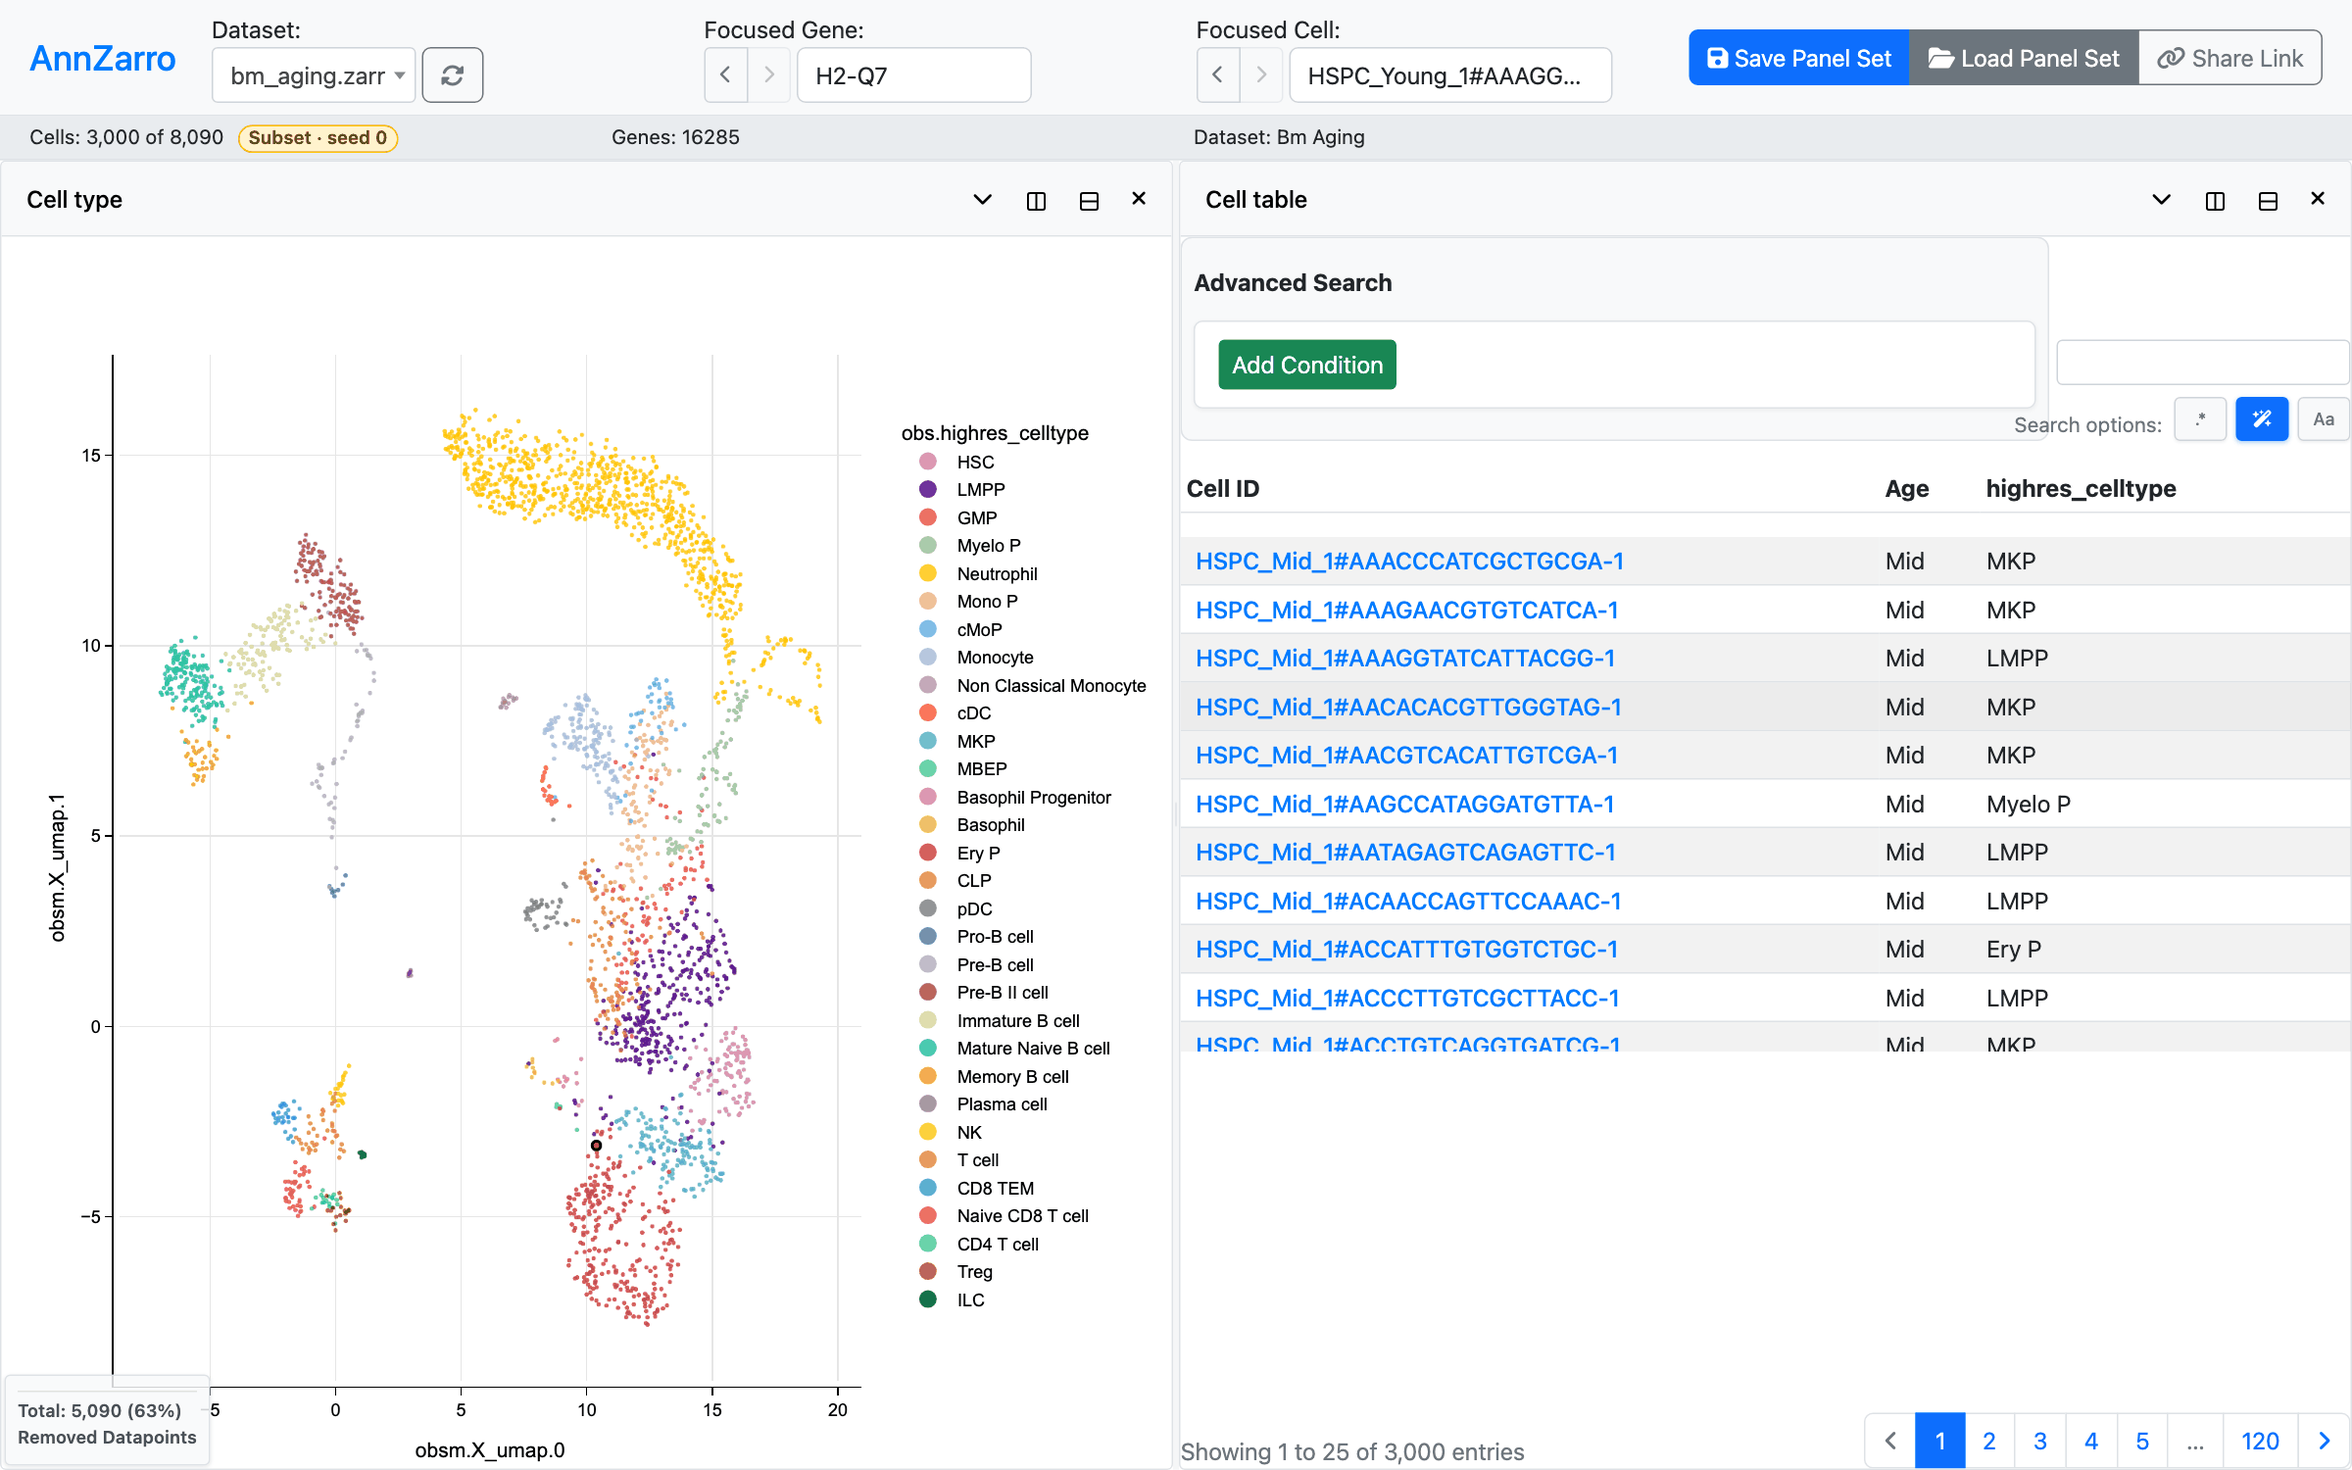
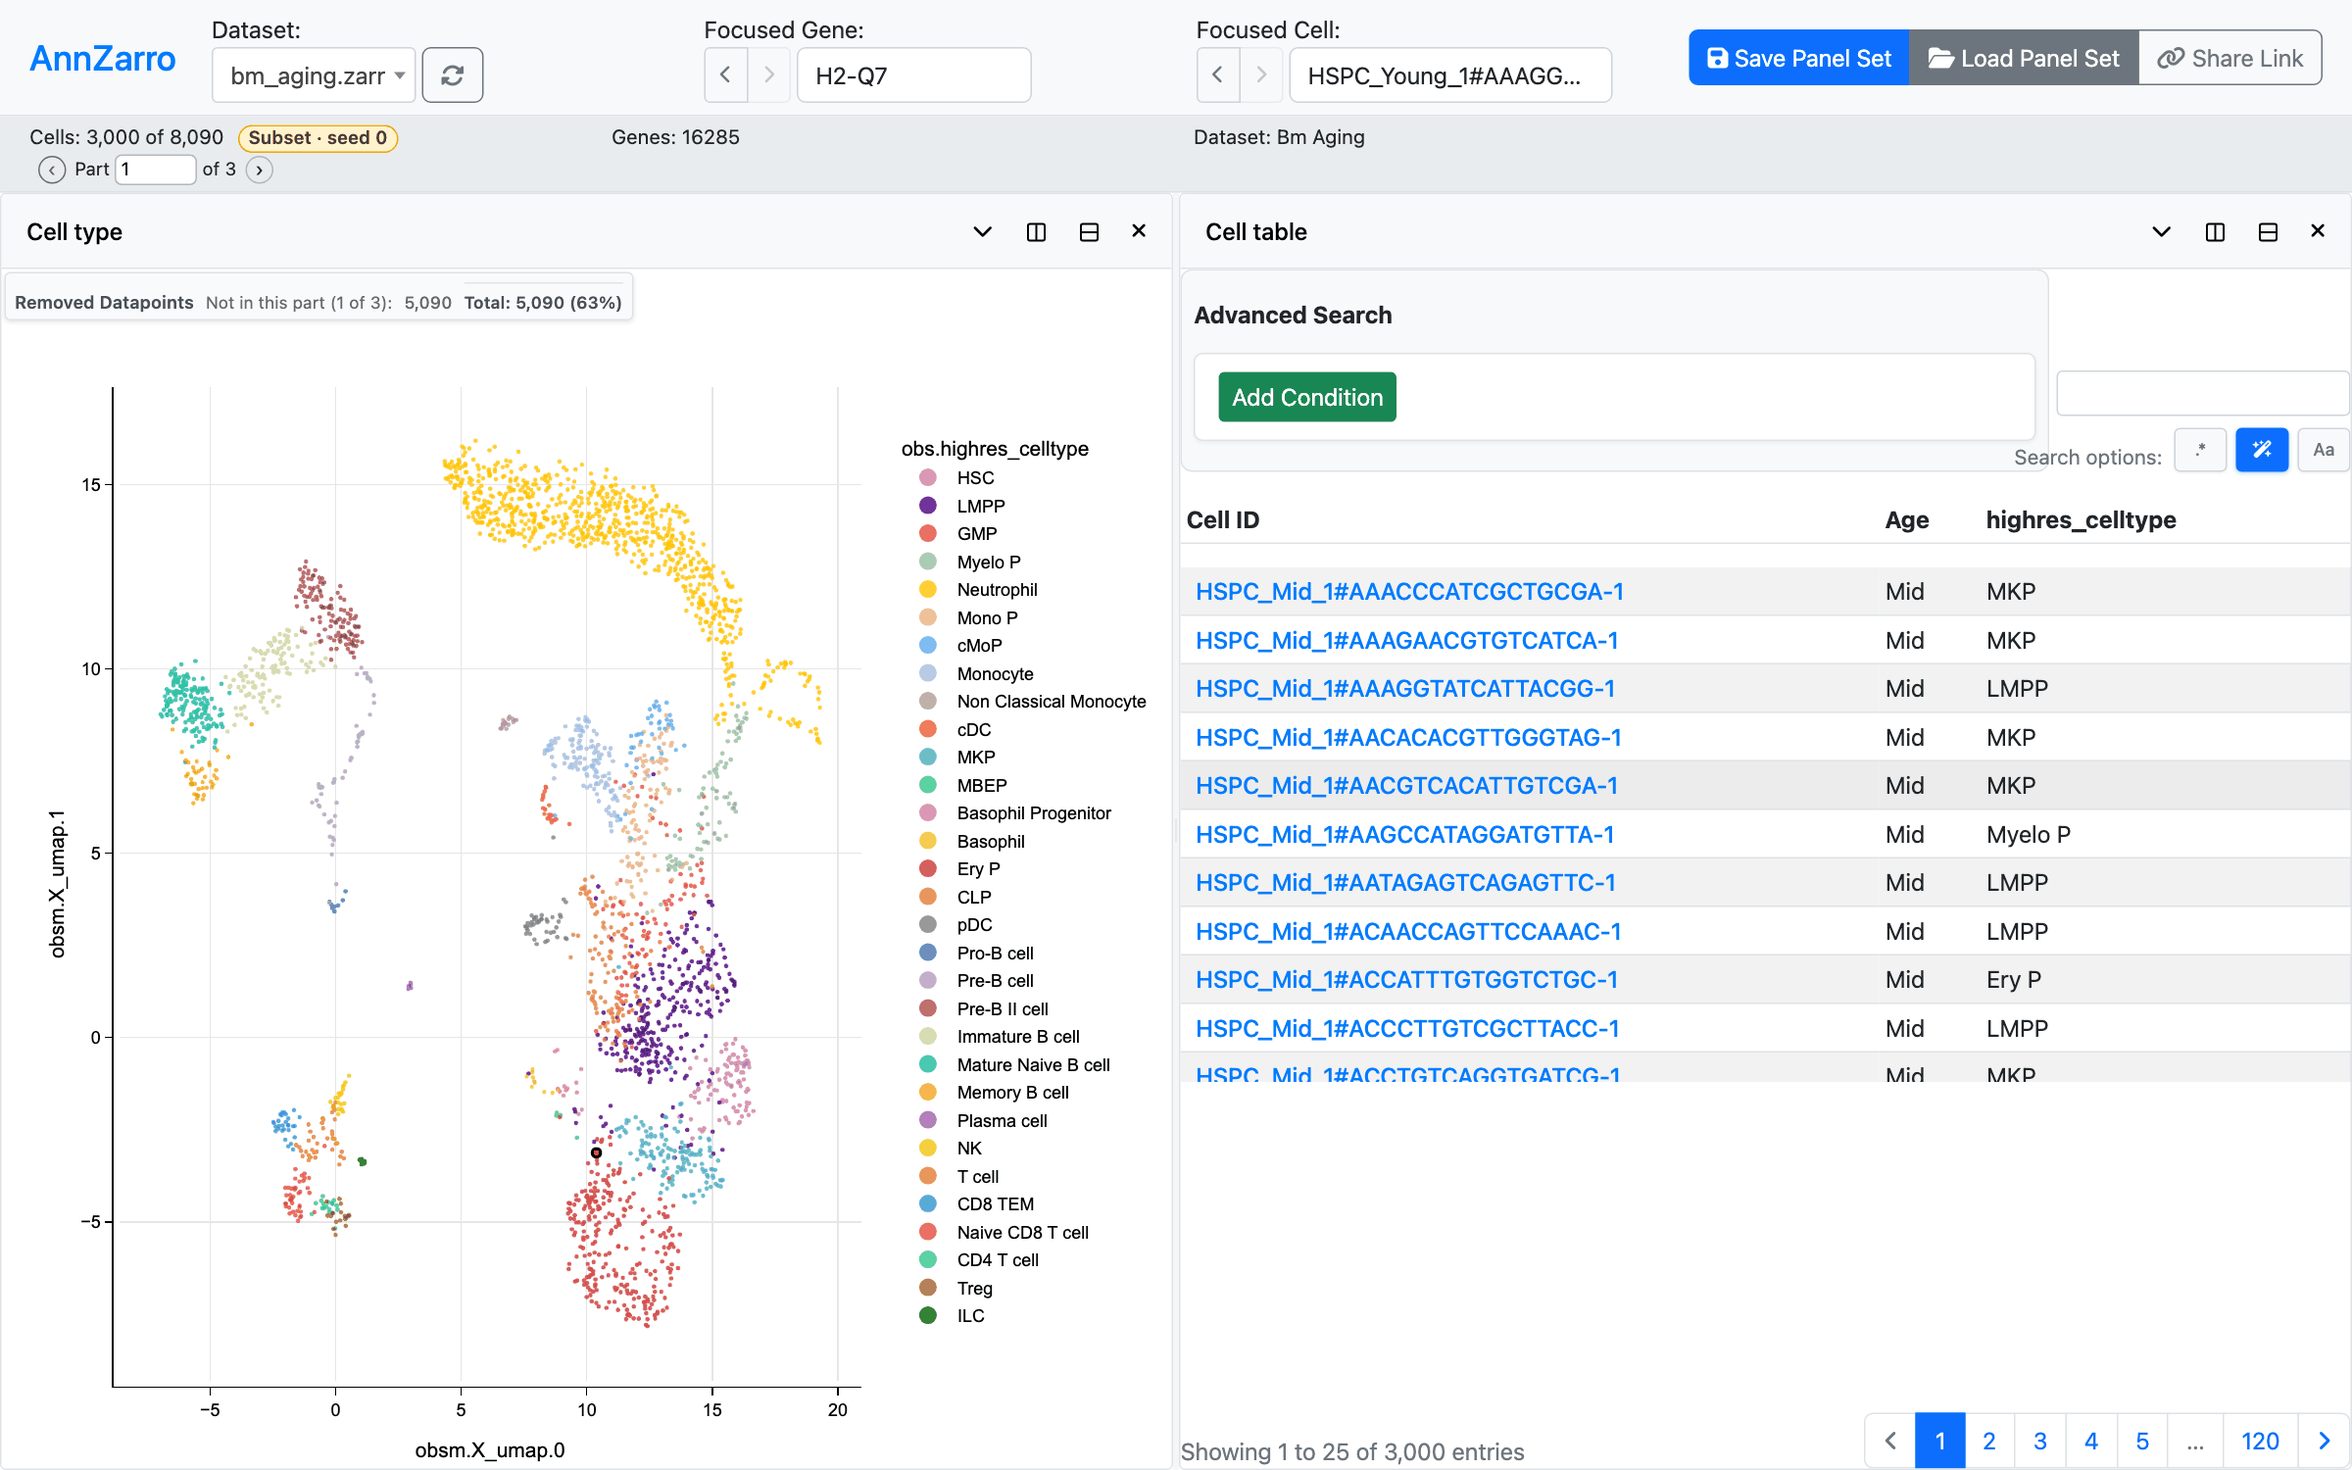
Document subset parts
user-guide/subsets.md: "Stepping through every cell", with screenshots
of the part stepper taken by shoot_userguide.py (which now steps a part).
reference/deep-links.md: the part field and what an old link means.
reference/http-api.md: part in the spec, the reply's part/parts/before,
part_out_of_range, and live replies for the first and last part.
design/subsetting.md: the partition, the rank-window search and its cost.

diff --git a/docs/_tools/shoot_userguide.py b/docs/_tools/shoot_userguide.py
@@ -876,6 +876,22 @@ def shoot_subsets(sh, data_dir):
     capture(sh, page, "subsets-applied", None)
     capture_union(sh, page, "subsets-badge", ["#cell-count", "#subset-button"],
                   marks=[(1, "#subset-button")], pad=10)
+    # Parts: 8,063 cells pass the filter, in parts of 3,000 -> 3 parts. Step to part 2.
+    capture_union(sh, page, "subsets-parts", ["#cell-count", "#subset-button", "#subset-parts"],
+                  marks=[(1, "#subset-part-prev"), (2, "#subset-part-input"), (3, "#subset-part-next")], pad=10)
+    page.click("#subset-part-next")
+    page.wait_for_function("document.getElementById('subset-part-input').value === '2'", timeout=60000)
+    time.sleep(2)
+    sh.ready(page)
+    sh.log.append("subsets: after › = " + page.evaluate(
+        "document.getElementById('cell-count').textContent + ' | part ' + document.getElementById('subset-part-input').value"
+        " + ' of ' + document.getElementById('subset-part-count').textContent + ' | ' + document.getElementById('subset-button').title"))
+    capture_union(sh, page, "subsets-parts-2", ["#cell-count", "#subset-button", "#subset-parts"], pad=10)
+    sh.log.append("subsets: filter widget part 2 = " + page.locator(f"{T('cell-plot-SA')} .datapoint-filter-widget").inner_text().replace("\n", " "))
+    page.click("#subset-part-prev")
+    page.wait_for_function("document.getElementById('subset-part-input').value === '1'", timeout=60000)
+    time.sleep(2)
+    sh.ready(page)
     sh.log.append("subsets: table info = " + page.locator(f"{T('cell-table-ST')} .dataTables_info").inner_text())
     sh.log.append("subsets: filter widget = " + page.locator(f"{T('cell-plot-SA')} .datapoint-filter-widget").inner_text().replace("\n", " "))
     # Share link carries the subset

diff --git a/docs/design/subsetting.md b/docs/design/subsetting.md
@@ -26,7 +26,8 @@ A spec, sent as compact JSON:
   "where": [                // optional: AND of conditions on obs columns
     {"col": "cluster",  "op": "in",      "values": ["3", "5"]},
     {"col": "n_counts", "op": ">=",      "value": 500},
-    {"col": "age",      "op": "between", "value": [2, 18]} ] }
+    {"col": "age",      "op": "between", "value": [2, 18]} ],
+  "part": 0 }               // optional: which part of the partition (below); 0 when absent
 ```
 
 Ops: `in`, `not_in` (matched on the value's text: `3` and `3.0` are `"3"`,
@@ -52,6 +53,36 @@ whole and its unused share goes to the others; the rest get equal shares, the
 remainder one each in group order. Within a group the cells with the smallest
 keys are taken. 50,000 / 5,000 / 500 cells at n = 3,000 gives 1,250 / 1,250 /
 500.
+
+**Parts.** A subset is one part of a partition of the eligible cells into
+k = ceil(eligible / n) disjoint parts that together hold every eligible cell
+once; `part` (0-based, default 0) picks one. Stepping through the parts shows
+every cell.
+
+- Uniform: part j is the eligible cells of key rank [j*n, (j+1)*n). The last
+  part holds the remainder.
+- Balanced: part j is the balanced selection of n cells from the cells not in
+  parts 0..j-1. Each group's quota per part follows from repeating the
+  water-filling on the remaining group sizes (arithmetic on the sizes only),
+  and group g's part-j cells are its key ranks [before, before + quota), where
+  before is its quota summed over parts 0..j-1. Every part is as balanced as
+  the remaining cells allow: once a small group is used up, later parts hold
+  only the larger groups.
+- Part 0 is the subset as it was defined before parts existed, and a spec of
+  part 0 is written without `part`, so its key, its cache entries and every
+  link that names it are unchanged.
+
+Finding a part does not sort every eligible row. Rank keys are spread evenly
+over the 64-bit range, so rank r of a group of size S sits near key r / S of
+the range. One pass over the rows, a million at a time, counts each group's
+rows below a key a little under the wanted ranks and collects the rows inside a
+window a little above them; a group whose count and collection do not bracket
+its ranks gets a wider window and is collected again. Only the collected rows
+(about 1.1 x the part) are sorted, so a part costs about what part 0 does
+(synthetic 2M cells, 20 parts of 100,000, in-process: uniform 0.023 / 0.034 /
+0.029 s for parts 0 / 10 / 19; balanced across 380 drugs 0.065 / 0.140 /
+0.113 s). The row pass is linear in the cells, about 1.5 s at 95.6 million;
+the quotas of the last of 957 balanced parts over 5,000 groups take 0.12 s.
 
 **Default.** A dataset with more than `ui.defaults.subset_threshold` cells
 (200,000) opens on `{"n": subset_size, "seed": subset_seed}` (100,000, 0). At
@@ -137,8 +168,14 @@ remains: SearchBuilder lets a cell with no value pass `≠`; the subset does not
   draw exceed the threshold.
 - Apply reopens the current view (panels, layout, focus) on the new cells
   through the panel-set load path, so every panel is rebuilt on them.
-- Each plot's filter widget has a line `Not in cell subset: 1,060,000`, and its
-  total is a share of every cell of the dataset.
+- With more than one part, `‹ Part 3 of 957 ›` follows the badge: buttons for
+  the previous and next part and a box to type a part number (counted from 1 in
+  the UI, from 0 in the spec). A step reopens the view on the other part, like
+  Apply. The badge's tooltip names the part and, for a balanced partition, the
+  groups earlier parts already showed in full.
+- Each plot's filter widget has a line `Not in cell subset: 1,060,000` (`Not in
+  this part (3 of 957)` with parts), and its total is a share of every cell of
+  the dataset.
 - A focused cell outside the subset is not focused silently; a notice says why.
   A link whose subset the dataset cannot apply (a column it lacks) opens on the
   default, with a notice.

diff --git a/docs/reference/http-api.md b/docs/reference/http-api.md
@@ -218,11 +218,25 @@ A subset is described by a spec, sent as the `subset=` query parameter (compact 
 `not_in`, `>`, `>=`, `<`, `<=`, `==`, `!=`, `between`). The same spec selects the same cells on
 every machine and release.
 
-`GET /data/subset?dataset_path=&subset=` resolves a spec and describes it:
+`"part": j` (0-based, default 0) selects part j of the partition of the eligible cells into
+`ceil(eligible / n)` disjoint parts, which together hold every eligible cell once. Part 0 is the
+spec without `part`, and its `key` is written without it. Every route that takes `subset=` takes
+the part; a part past the last is `400 part_out_of_range`.
+
+`GET /data/subset?dataset_path=&subset=` resolves a spec and describes it. The reply has `n`
+(cells in this part), `n_total`, `n_eligible`, `part`, `parts` (the number of parts) and, for a
+balanced spec, per group `total`, `shown` (in this part) and `before` (in parts 0..part-1):
 
 ```console
 $ curl -s "http://127.0.0.1:8812/api/v1/data/subset?dataset_path=$DS&subset=%7B%22n%22%3A300%2C%22seed%22%3A0%2C%22balance%22%3A%22Age%22%7D"
-{"defaults":{"seed":0,"size":100000,"threshold":200000},"groups":{"Mid":{"shown":100,"total":2057},"Old":{"shown":100,"total":3116},"Young":{"shown":100,"total":2917}},"key":"{\"n\":300,\"seed\":0,\"balance\":\"Age\"}","n":300,"n_eligible":8090,"n_total":8090,"subset":{"balance":"Age","n":300,"seed":0}}
+{"defaults":{"seed":0,"size":100000,"threshold":200000},"groups":{"Mid":{"before":0,"shown":100,"total":2057},"Old":{"before":0,"shown":100,"total":3116},"Young":{"before":0,"shown":100,"total":2917}},"key":"{\"n\":300,\"seed\":0,\"balance\":\"Age\"}","n":300,"n_eligible":8090,"n_total":8090,"part":0,"parts":27,"subset":{"balance":"Age","n":300,"seed":0}}
+```
+
+The last of the 27 parts (`"part": 26`) holds the 290 cells left; the 2,057 Mid cells were all
+shown by earlier parts, so it is Old and Young only:
+
+```text
+"groups":{"Mid":{"before":2057,"shown":0,"total":2057},"Old":{"before":2872,"shown":244,"total":3116},"Young":{"before":2871,"shown":46,"total":2917}},"n":290,"part":26,"parts":27
 ```
 
 With `subset=` the cell-axis routes (`/data/cells`, `/data/obs`, `/data/obsm`, `/data/obsp`,
@@ -314,7 +328,7 @@ one that is not a dataset `400 unsupported_type`.
 | 400 | `index_out_of_range` | an index at or beyond the length of its axis |
 | 400 | `cap_exceeded` | more indices than the client's own `max_cells=` / `max_genes=` parameter (below) |
 | 400 | `unsupported_type` | not a `.zarr`/`.h5ad`, a zarr format the server's zarr cannot read, an h5ad written by anndata older than 0.7, or a named obs/var column or obsm/varm key whose encoding cannot be read |
-| 400 | `bad_subset`, `subset_unsupported` | a malformed `subset=` spec; a route that cannot apply a subset |
+| 400 | `bad_subset`, `subset_unsupported`, `part_out_of_range` | a malformed `subset=` spec; a route that cannot apply a subset; a `part` past the last part |
 | 400 | (none) | a required parameter is missing, e.g. `{"error":"dataset_path parameter is required"}` |
 | 401 | (none) | login on, no session; checked first |
 | 403 | `outside_data_dir` | hosted server, local path outside the data directory and `allowed_dirs` (the message names no server directories) |

diff --git a/docs/user-guide/subsets.md b/docs/user-guide/subsets.md
@@ -81,10 +81,45 @@ After **Apply**: the UMAP and the cell table show the same 3,000 cells. View bef
 {download}`userguide-subset-start.json <../_tools/views/userguide-subset-start.json>`.
 ```
 
+## Stepping through every cell
+
+A subset is the first of several **parts** that split the cells into disjoint groups of the
+chosen size; together the parts hold every cell (every cell passing the filter) once. With more
+than one part, the statistics bar shows the part next to the badge:
+
+```{figure} ../_static/screens/user-guide/subsets-parts.png
+:class: screenshot
+:width: 35%
+:alt: The statistics bar reading Cells 3,000 of 8,090, the badge Subset · seed 0, and below it a previous-part button (1), the part number 1 in a box (2), "of 3" and a next-part button (3).
+
+The 8,063 cells passing the filter above, in parts of 3,000: **Part 1 of 3**.
+```
+
+- **›** (3) shows the next part and **‹** (1) the previous one. The view stays as it is (layout,
+  panel settings, focused gene); only the cells change, and every panel and table follows. A
+  focused cell that is not in the new part is not focused, and a notice says so.
+- Type a part number into the box (2) and press Enter to jump to it.
+- The parts never share a cell: stepping from part 1 to part 3 shows each cell exactly once.
+- With **Balanced across** a column, every part is as balanced as the cells not yet shown allow.
+  Small groups are used up in the first parts, so later parts hold the larger groups only; the
+  badge's tooltip lists the groups earlier parts already showed in full.
+- Share links and panel sets record the part, so they reopen on the same part. A link without
+  a part, such as one made before parts existed, opens on part 1.
+
+```{figure} ../_static/screens/user-guide/subsets-parts-2.png
+:class: screenshot
+:width: 35%
+:alt: The statistics bar after one step: Cells 3,000 of 8,090, Part 2 of 3.
+
+After **›**: part 2 of 3, another 3,000 cells, none of them in part 1.
+```
+
+The plots' **Removed Datapoints** box then counts the other cells as "Not in this part (2 of 3)".
+
 ## What a subset changes
 
 - **Cell plots** draw only the subset's cells. The **Removed Datapoints** box counts the other
-  cells as not in the cell subset (here 5,090, 63 % of 8,090), so its total always accounts for
+  cells as not in this part of the cell subset (here 5,090, 63 % of 8,090), so its total always accounts for
   every cell of the dataset. Gene plots draw every gene as before.
 - **Cell tables** hold the subset's cells (here 3,000 rows), and **Export CSV** writes those
   rows.

diff --git a/docs/reference/deep-links.md b/docs/reference/deep-links.md
@@ -76,7 +76,7 @@ companion repository `settylab/annzarro-paper`. The docs' screenshot views are i
   },
 
   // the cells every panel shows, optional (see "Cell subset" below)
-  "subset": { "n": 100000, "seed": 0 },  // null: every cell; absent: server default
+  "subset": { "n": 100000, "seed": 0 },  // null: every cell; absent: server default; optional "part"
 
   // PREFERRED: a full layout tree
   "layout": {                      // exactly what PanelManager.saveLayout() emits
@@ -105,6 +105,13 @@ larger `n` only adds cells. A share link records the subset whenever one is show
 `subset` opens on the server's default (a 100,000-cell subset above 200,000 cells, otherwise
 every cell); a malformed one is dropped, so the link still opens. A hand-written link can ask
 for a subset of an atlas directly, e.g. `"subset": {"n": 50000, "seed": 1, "balance": "batch"}`.
+
+`subset.part` (0-based) picks one of the disjoint parts that the spec splits the cells into
+({doc}`../user-guide/subsets`): `{"n": 100000, "seed": 0, "part": 2}` is the third part, shown
+as "Part 3 of …". A link records the part it was made on; part 0 is written without the field,
+so a link without `part`, including every link made before parts existed, opens on part 0 with
+the same cells as before. A part past the last one is refused by the server (`400
+part_out_of_range`) and the link opens on the dataset's default, with a notice.
 
 `focusedCell` and `focusedGene` are names (`obs_names`, `var_names`), not indices. Cell names
 may contain `#` (the demonstration data's do); inside the base64 payload that is harmless.
